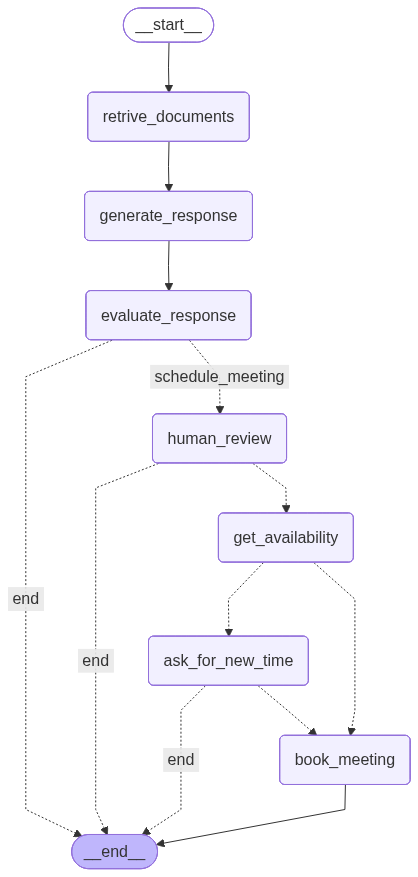
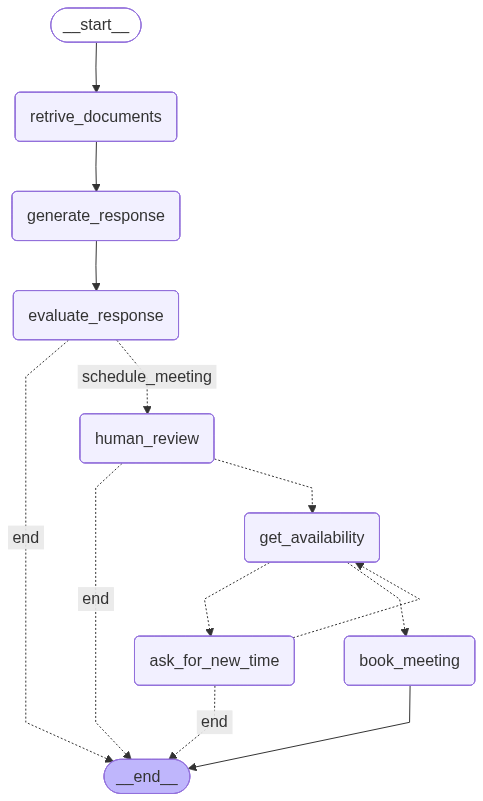
Added integration with cal.com

diff --git a/README.md b/README.md
@@ -2,6 +2,30 @@
 
 A LangGraph-based agent system that provides automated responses to educational questions with quality evaluation and human-in-the-loop meeting scheduling capabilities.
 
+
+## Result with booking
+
+<pre>
+Question: My son struggles with tennis shots, what should I do?
+
+Action: schedule_meeting
+Please provide your decision:
+The agent can't answer the question. We need to schedule a meeting with teacher. Please approve this meeting. (yes/no): yes
+Enter user name: Anna Banana
+Enter email: anna@banana.com
+Enter meeting time (format: 1 Dec 2025 20:00PM): 15 Nov 2025 11:00AM
+Checking availability for 2025-11-15T11:00:00
+Booking meeting for 2025-11-15T11:00:00 with Anna Banana at anna@banana.com
+
+Question: My son struggles with tennis shots, what should I do?
+
+Booking Details: Meeting booked for 2025-11-15T11:00:00 with Anna Banana at anna@banana.com
+
+Teacher will address your question in the meeting.
+</pre>
+
+![Appointment](appointment.png)
+
 ## Architecture
 
 The agent implements a state machine workflow using LangGraph, processing user questions through document retrieval, response generation, evaluation, and conditional meeting scheduling.
@@ -70,4 +94,5 @@ class DigitalCloneState(TypedDict):
 ## Usage
 
 The agent processes questions through the workflow graph, automatically handling interrupts for human review when response quality is insufficient or meeting scheduling is required. The graph visualization is generated on execution and saved to `digital_clone_visualization.png`.
+
 
